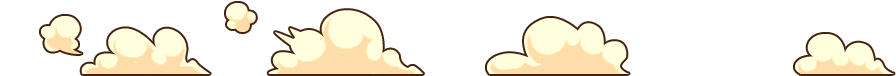
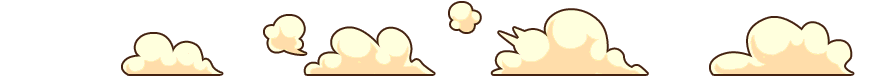
【小新】跳跃效果

diff --git a/小新资源（覆盖测试）/custom-config.js b/小新资源（覆盖测试）/custom-config.js
@@ -12298,26 +12298,26 @@ Config.playerEffect = {
     // 地面跳跃
     ground: {
         // 动画路径
-        animationJsonPath: "images/eff_run_02.json",
+        animationJsonPath: "images/eff_jump_01.json",
         // 动画名称
-        animationName: "eff_run_02",
+        animationName: "eff_jump_01",
         // 动画帧率（1的话就是，游戏刷新一帧，动画就刷新一帧，0.5的话就是，游戏刷新两帧，动画就刷新一帧）
-        animationSpeed: 0.2,
+        animationSpeed: 0.08,
         // 动画偏移
-        animationPos: [-250, -25],
+        animationPos: [-40, -20],
         // 是否跟随玩家
         followPlayer: 0,
     },
     // 空中跳跃
     air: {
         // 动画路径
-        animationJsonPath: "images/eff_run_02.json",
+        animationJsonPath: "images/eff_jump_01_2.json",
         // 动画名称
-        animationName: "eff_run_02",
+        animationName: "eff_jump_01_2",
         // 动画帧率（1的话就是，游戏刷新一帧，动画就刷新一帧，0.5的话就是，游戏刷新两帧，动画就刷新一帧）
-        animationSpeed: 0.2,
+        animationSpeed: 0.15,
         // 动画偏移
-        animationPos: [-250, -25],
+        animationPos: [-120, 40],
         // 是否跟随玩家
         followPlayer: 0,
     },
